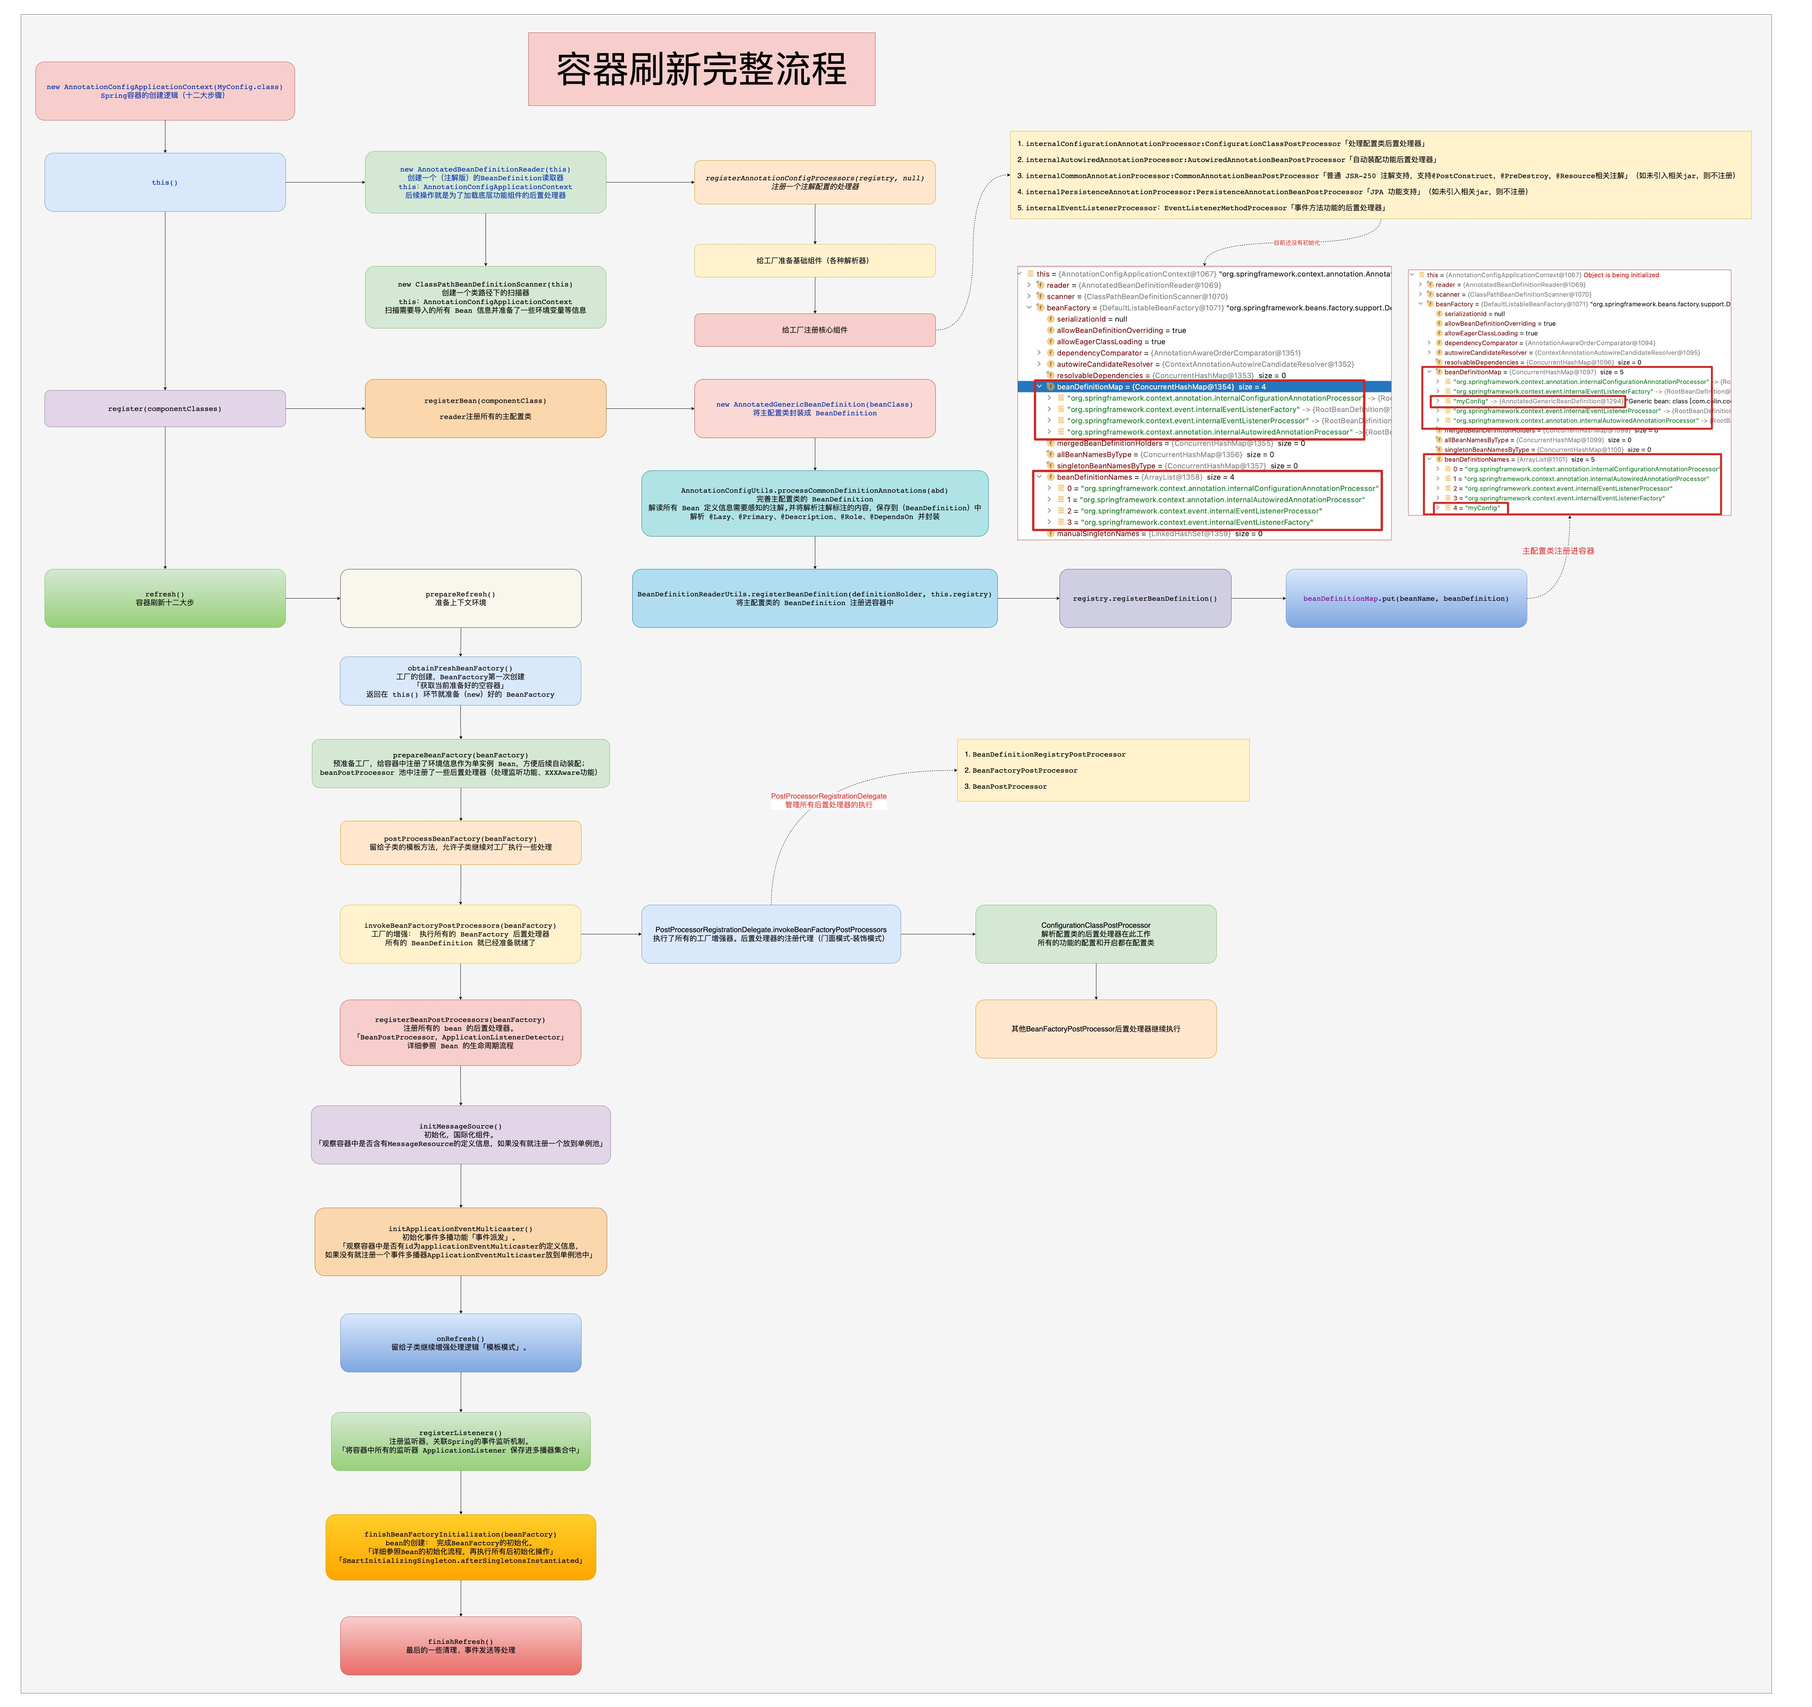
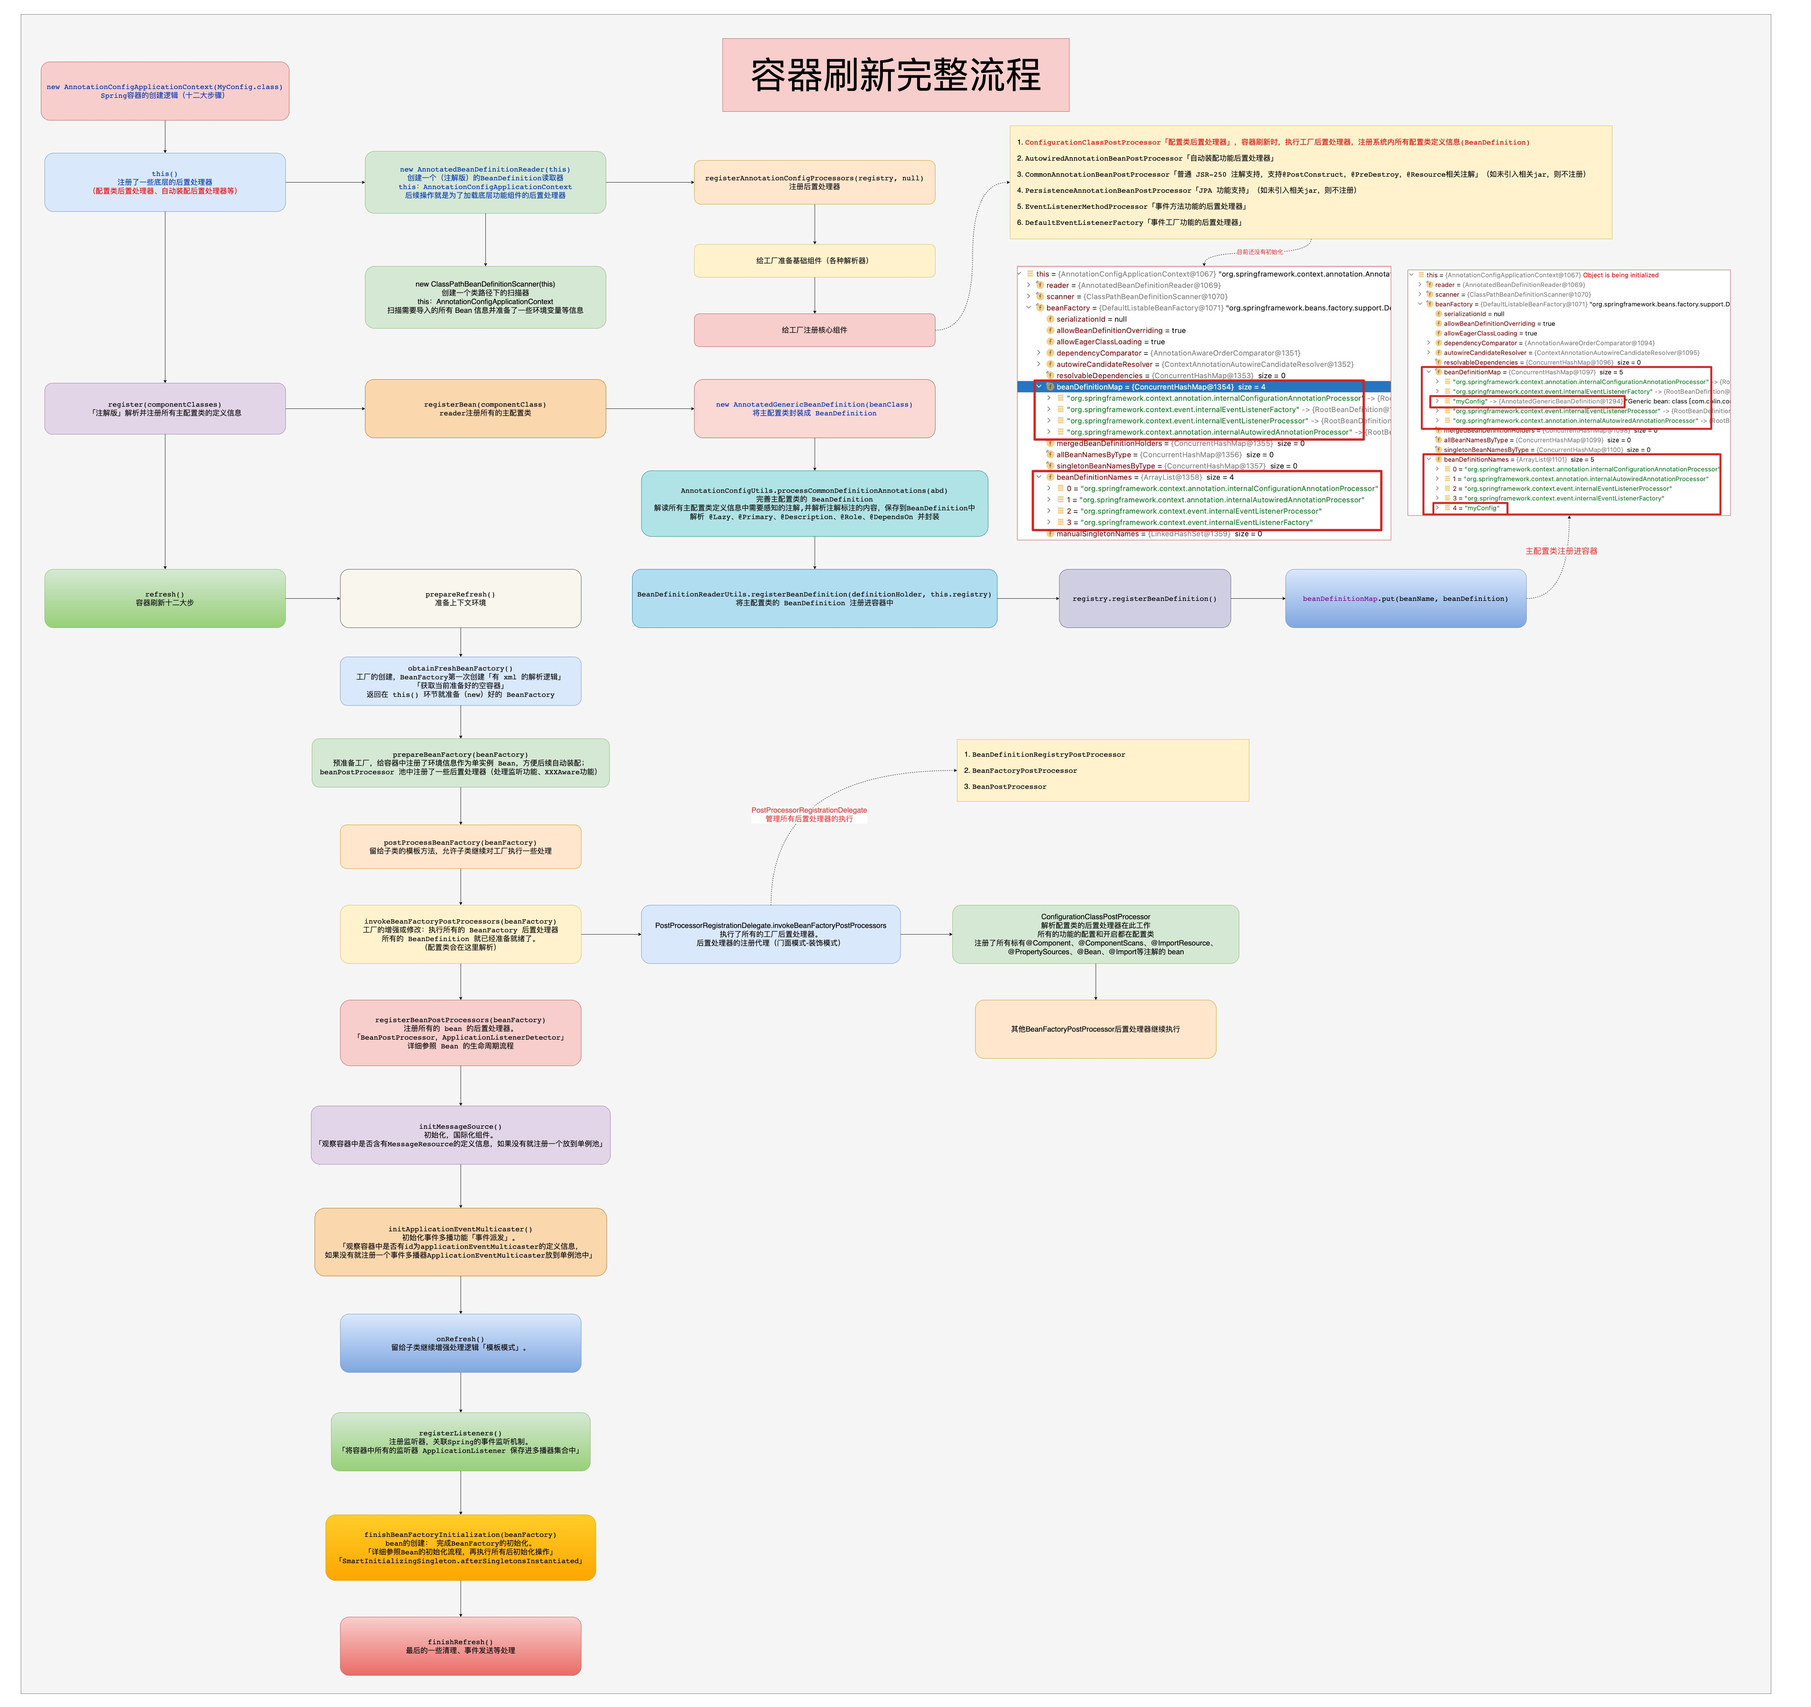
update

diff --git a/spring-context/src/main/java/org/springframework/context/support/AbstractApplicationContext.java b/spring-context/src/main/java/org/springframework/context/support/AbstractApplicationContext.java
@@ -551,10 +551,10 @@ public abstract class AbstractApplicationContext extends DefaultResourceLoader
 			// 准备上下文环境 Prepare this context for refreshing.
 			prepareRefresh();
 
-			// 工厂的创建： BeanFactory 第一次创建，有 xml 解析逻辑 Tell the subclass to refresh the internal bean factory.
+			// 工厂的创建：BeanFactory 第一次创建，获取当前准备好的空容器。「有 xml 解析逻辑」. Tell the subclass to refresh the internal bean factory.
 			ConfigurableListableBeanFactory beanFactory = obtainFreshBeanFactory();
 
-			// 预准备工厂，给容器中注册了环境信息作为单实例 Bean，方便后续自动装配；还注册了一些后置处理器（处理监听功能、XXXAware功能）还注册了一些后置处理器（处理监听功能、XXXAware功能）。Prepare the bean factory for use in this context.
+			// 预准备工厂，给容器中注册了环境信息作为单实例 Bean，方便后续自动装配；还注册了一些后置处理器（处理监听功能、XXXAware功能）。Prepare the bean factory for use in this context.
 			prepareBeanFactory(beanFactory);
 
 			try {
@@ -562,7 +562,7 @@ public abstract class AbstractApplicationContext extends DefaultResourceLoader
 				postProcessBeanFactory(beanFactory);
 
 				StartupStep beanPostProcess = this.applicationStartup.start("spring.context.beans.post-process");
-				// 工厂的增强： 执行所有的 BeanFactory 后置处理器，可以利用 BeanFactory 后置增强器对工厂进行修改或增强  配置类会在这里解析。 Invoke factory processors registered as beans in the context.
+				// 工厂的增强： 执行所有的 BeanFactory 后置处理器对工厂进行修改或增强(配置类会在这里解析)。 Invoke factory processors registered as beans in the context.
 				invokeBeanFactoryPostProcessors(beanFactory);
 
 				// 注册所有的 bean 的后置处理器。「BeanPostProcessor」 Register bean processors that intercept bean creation.
@@ -581,7 +581,7 @@ public abstract class AbstractApplicationContext extends DefaultResourceLoader
 				// 注册监听器，关联Spring的事件监听机制。「将容器中所有的监听器 ApplicationListener 保存进多播器集合中」 Check for listener beans and register them.
 				registerListeners();
 
-				// bean的创建： 完成 BeanFactory 的初始化。「详细参照 Bean 的初始化流程，再执行所有后初始化操作」「SmartInitializingSingleton.afterSingletonsInstantiated」。 Instantiate all remaining (non-lazy-init) singletons.
+				// bean 的创建：完成 BeanFactory 的初始化。「详细参照 Bean 的初始化流程，再执行所有后初始化操作」「SmartInitializingSingleton.afterSingletonsInstantiated」。 Instantiate all remaining (non-lazy-init) singletons.
 				finishBeanFactoryInitialization(beanFactory);
 
 				// 最后的一些清理、事件发送等处理。 Last step: publish corresponding event.
@@ -670,7 +670,7 @@ public abstract class AbstractApplicationContext extends DefaultResourceLoader
 	 * @see #getBeanFactory()
 	 */
 	protected ConfigurableListableBeanFactory obtainFreshBeanFactory() {
-		//刷新工厂（将配置文件中的信息注册进工厂中 「信息保存在 beanDefinitionMap 中」）
+		// 刷新工厂（将配置文件中的信息注册进工厂中「信息保存在 beanDefinitionMap 中」）
 		refreshBeanFactory();
 		return getBeanFactory();
 	}
@@ -746,7 +746,7 @@ public abstract class AbstractApplicationContext extends DefaultResourceLoader
 	 * <p>Must be called before singleton instantiation.
 	 */
 	protected void invokeBeanFactoryPostProcessors(ConfigurableListableBeanFactory beanFactory) {
-		//执行了所有的工厂增强器。后置处理器的注册代理（门面模式-装饰模式）
+		// 执行了所有的工厂增强器。后置处理器的注册代理（门面模式-装饰模式）
 		PostProcessorRegistrationDelegate.invokeBeanFactoryPostProcessors(beanFactory, getBeanFactoryPostProcessors());
 
 		// Detect a LoadTimeWeaver and prepare for weaving, if found in the meantime

diff --git a/spring-context/src/main/java/org/springframework/context/annotation/AnnotationConfigUtils.java b/spring-context/src/main/java/org/springframework/context/annotation/AnnotationConfigUtils.java
@@ -160,14 +160,14 @@ public abstract class AnnotationConfigUtils {
 
 		Set<BeanDefinitionHolder> beanDefs = new LinkedHashSet<>(8);
 
-		// 注册底层的配置文件的后置处理器：ConfigurationClassPostProcessor
+		// 注册底层的处理配置类的后置处理器：ConfigurationClassPostProcessor
 		if (!registry.containsBeanDefinition(CONFIGURATION_ANNOTATION_PROCESSOR_BEAN_NAME)) {
 			RootBeanDefinition def = new RootBeanDefinition(ConfigurationClassPostProcessor.class);
 			def.setSource(source);
 			beanDefs.add(registerPostProcessor(registry, def, CONFIGURATION_ANNOTATION_PROCESSOR_BEAN_NAME));
 		}
 
-		// 注册底层的自动装配的后置处理器：AutowiredAnnotationBeanPostProcessor
+		// 注册底层的自动装配功能的后置处理器：AutowiredAnnotationBeanPostProcessor
 		if (!registry.containsBeanDefinition(AUTOWIRED_ANNOTATION_PROCESSOR_BEAN_NAME)) {
 			RootBeanDefinition def = new RootBeanDefinition(AutowiredAnnotationBeanPostProcessor.class);
 			def.setSource(source);
@@ -239,7 +239,7 @@ public abstract class AnnotationConfigUtils {
 	public static void processCommonDefinitionAnnotations(AnnotatedBeanDefinition abd) {
 		processCommonDefinitionAnnotations(abd, abd.getMetadata());
 	}
-	// 解读所有 Bean 定义信息需要感知的注解,并将解析注解标注的内容，保存到当前 Bean 的定义信息（BeanDefinition）中。「@Lazy,@Primary,@DependsOn,@Role,@Description」
+	// 解读主配置类定义信息中所有需要感知的注解,并解析注解标注的内容，保存到当前配置类的定义信息（BeanDefinition）中。「@Lazy,@Primary,@DependsOn,@Role,@Description」
 	static void processCommonDefinitionAnnotations(AnnotatedBeanDefinition abd, AnnotatedTypeMetadata metadata) {
 		AnnotationAttributes lazy = attributesFor(metadata, Lazy.class);
 		if (lazy != null) {

diff --git a/spring-context/src/main/java/org/springframework/context/annotation/AnnotationConfigApplicationContext.java b/spring-context/src/main/java/org/springframework/context/annotation/AnnotationConfigApplicationContext.java
@@ -66,8 +66,10 @@ public class AnnotationConfigApplicationContext extends GenericApplicationContex
 	 */
 	public AnnotationConfigApplicationContext() {
 		StartupStep createAnnotatedBeanDefReader = this.getApplicationStartup().start("spring.context.annotated-bean-reader.create");
+		// 创建一个（注解版）的 BeanDefinition 读取器。（加载了底层功能组件的后置处理器）
 		this.reader = new AnnotatedBeanDefinitionReader(this);
 		createAnnotatedBeanDefReader.end();
+		// 创建一个类路径下的扫描器。（扫描需要导入的所有 Bean 信息并准备了一些环境变量等信息）
 		this.scanner = new ClassPathBeanDefinitionScanner(this);
 	}
 
@@ -88,10 +90,12 @@ public class AnnotationConfigApplicationContext extends GenericApplicationContex
 	 * {@link Configuration @Configuration} classes
 	 */
 	public AnnotationConfigApplicationContext(Class<?>... componentClasses) {
-		this(); // 注册了一些底层的后置处理器
-		// 注解版解析并注册 Bean 的定义信息「BeanDefinition」。
+		// 注册了一些底层的后置处理器
+		this();
+		// 解析并注册所有主配置类的定义信息
 		register(componentClasses);
-		refresh();	// 容器完整刷新（创建出所有组件，组织好所有功能）
+		// 容器完整刷新（创建出所有组件，组织好所有功能）
+		refresh();
 	}
 
 	/**

diff --git a/spring-context/src/main/java/org/springframework/context/support/PostProcessorRegistrationDelegate.java b/spring-context/src/main/java/org/springframework/context/support/PostProcessorRegistrationDelegate.java
@@ -185,11 +185,11 @@ final class PostProcessorRegistrationDelegate {
 			}
 		}
 
-		// 首先，从工厂中获取所有的实现了PriorityOrdered接口的BeanFactoryPostProcessors First, invoke the BeanFactoryPostProcessors that implement PriorityOrdered.
+		// 首先，从工厂中获取所有的实现了PriorityOrdered接口的BeanFactoryPostProcessors。 First, invoke the BeanFactoryPostProcessors that implement PriorityOrdered.
 		sortPostProcessors(priorityOrderedPostProcessors, beanFactory);
 		invokeBeanFactoryPostProcessors(priorityOrderedPostProcessors, beanFactory);
 
-		// 接下来，从工厂中获取所有的实现了Ordered接口的BeanFactoryPostProcessors Next, invoke the BeanFactoryPostProcessors that implement Ordered.
+		// 接下来，从工厂中获取所有的实现了Ordered接口的BeanFactoryPostProcessors。 Next, invoke the BeanFactoryPostProcessors that implement Ordered.
 		List<BeanFactoryPostProcessor> orderedPostProcessors = new ArrayList<>(orderedPostProcessorNames.size());
 		for (String postProcessorName : orderedPostProcessorNames) {
 			orderedPostProcessors.add(beanFactory.getBean(postProcessorName, BeanFactoryPostProcessor.class));

diff --git a/spring-context/src/main/java/org/springframework/context/annotation/AnnotatedBeanDefinitionReader.java b/spring-context/src/main/java/org/springframework/context/annotation/AnnotatedBeanDefinitionReader.java
@@ -85,6 +85,7 @@ public class AnnotatedBeanDefinitionReader {
 		Assert.notNull(environment, "Environment must not be null");
 		this.registry = registry;
 		this.conditionEvaluator = new ConditionEvaluator(registry, environment, null);
+		// 加载注册底层功能组件的后置处理器，（配置类后置处理器、自动装配功能后置处理器、JSR-250 注解支持的后置处理器、JPA 功能支持的后置处理器、事件方法功能的后置处理器、事件工厂功能的后置处理器）
 		AnnotationConfigUtils.registerAnnotationConfigProcessors(this.registry);
 	}
 
@@ -283,7 +284,7 @@ public class AnnotatedBeanDefinitionReader {
 
 		BeanDefinitionHolder definitionHolder = new BeanDefinitionHolder(abd, beanName);
 		definitionHolder = AnnotationConfigUtils.applyScopedProxyMode(scopeMetadata, definitionHolder, this.registry);
-		// 注册 Bean 的定义信息。
+		// 注册主配置类的定义信息。
 		BeanDefinitionReaderUtils.registerBeanDefinition(definitionHolder, this.registry);
 	}
 

diff --git a/colin-source-test/src/main/java/com/colin/demo/XmlDemo.java b/colin-source-test/src/main/java/com/colin/demo/XmlDemo.java
@@ -13,15 +13,19 @@ import org.springframework.context.support.ClassPathXmlApplicationContext;
 public class XmlDemo {
 
 	public static void main(String[] args) {
-		ApplicationContext applicationContext = new ClassPathXmlApplicationContext("bean2.xml");
-		Cat cat = applicationContext.getBean(Cat.class);
-		System.out.println(cat);
-		/*xmlDemo();*/
+		xmlDemo();
+		/*xmlDemo2();*/
 	}
 
 	private static void xmlDemo() {
 		ApplicationContext applicationContext = new ClassPathXmlApplicationContext("bean.xml");
 		Person pseron = applicationContext.getBean(Person.class);
 		System.out.println(pseron.name);
+	}
+
+	private static void xmlDemo2() {
+		ApplicationContext applicationContext = new ClassPathXmlApplicationContext("bean2.xml");
+		Cat cat = applicationContext.getBean(Cat.class);
+		System.out.println(cat);
 	}
 }

diff --git a/spring-beans/src/main/java/org/springframework/beans/factory/support/BeanDefinitionReaderUtils.java b/spring-beans/src/main/java/org/springframework/beans/factory/support/BeanDefinitionReaderUtils.java
@@ -159,11 +159,11 @@ public abstract class BeanDefinitionReaderUtils {
 			BeanDefinitionHolder definitionHolder, BeanDefinitionRegistry registry)
 			throws BeanDefinitionStoreException {
 
-		// 注册 Bean 的定义信息。Register bean definition under primary name.
+		// 注册主配置类的定义信息。Register bean definition under primary name.
 		String beanName = definitionHolder.getBeanName();
 		registry.registerBeanDefinition(beanName, definitionHolder.getBeanDefinition());
 
-		// Register aliases for bean name, if any.
+		// 如果存在别名，还要注册别名。Register aliases for bean name, if any.
 		String[] aliases = definitionHolder.getAliases();
 		if (aliases != null) {
 			for (String alias : aliases) {

diff --git a/spring-context/src/main/java/org/springframework/context/annotation/ConfigurationClassPostProcessor.java b/spring-context/src/main/java/org/springframework/context/annotation/ConfigurationClassPostProcessor.java
@@ -329,7 +329,7 @@ public class ConfigurationClassPostProcessor implements BeanDefinitionRegistryPo
 		Set<ConfigurationClass> alreadyParsed = new HashSet<>(configCandidates.size());
 		do {
 			StartupStep processConfig = this.applicationStartup.start("spring.context.config-classes.parse");
-			// 解析配置类，所有需要扫描进来的组件的 BeanDefinition 都已经准备好了。
+			// 解析配置类，所有需要扫描进来的组件的 BeanDefinition 都已经准备好了。「例如标注了@Component注解的类信息会被注册进来」
 			parser.parse(candidates);
 			parser.validate();
 

diff --git a/spring-context/src/main/java/org/springframework/context/annotation/ConfigurationClassParser.java b/spring-context/src/main/java/org/springframework/context/annotation/ConfigurationClassParser.java
@@ -166,7 +166,9 @@ class ConfigurationClassParser {
 		this.conditionEvaluator = new ConditionEvaluator(registry, environment, resourceLoader);
 	}
 
-	// 解析配置类
+	/**
+	 * 解析配置类
+ 	 */
 	public void parse(Set<BeanDefinitionHolder> configCandidates) {
 		for (BeanDefinitionHolder holder : configCandidates) {
 			BeanDefinition bd = holder.getBeanDefinition();

diff --git a/spring-beans/src/main/java/org/springframework/beans/factory/support/DefaultListableBeanFactory.java b/spring-beans/src/main/java/org/springframework/beans/factory/support/DefaultListableBeanFactory.java
@@ -990,7 +990,7 @@ public class DefaultListableBeanFactory extends AbstractAutowireCapableBeanFacto
 						"Validation of bean definition failed", ex);
 			}
 		}
-
+		// 先判断 Bean 的定义信息是否已经存在
 		BeanDefinition existingDefinition = this.beanDefinitionMap.get(beanName);
 		if (existingDefinition != null) {
 			if (!isAllowBeanDefinitionOverriding()) {

diff --git a/colin-source-test/src/main/java/com/colin/config/AopOpenConfig.java b/colin-source-test/src/main/java/com/colin/config/AopOpenConfig.java
@@ -6,8 +6,10 @@ import org.springframework.context.annotation.EnableAspectJAutoProxy;
 /**
  * @author colin
  * @create 2021-03-23 16:41
+ *
+ * EnableAspectJAutoProxy ：开启基于注解的aop
  */
-@EnableAspectJAutoProxy // 开启基于注解的aop
-@Configuration
+/*@EnableAspectJAutoProxy
+@Configuration*/
 public class AopOpenConfig {
 }

diff --git a/colin-source-test/src/main/java/com/colin/aop/LogAspect.java b/colin-source-test/src/main/java/com/colin/aop/LogAspect.java
@@ -26,8 +26,8 @@ import java.util.Arrays;
  * 「@Aspect」：表明为切面类
  * 切面类也要注册进容器中「@Component」
  */
-@Component
-@Aspect
+//@Component
+//@Aspect
 public class LogAspect {
 
 	public LogAspect() {
